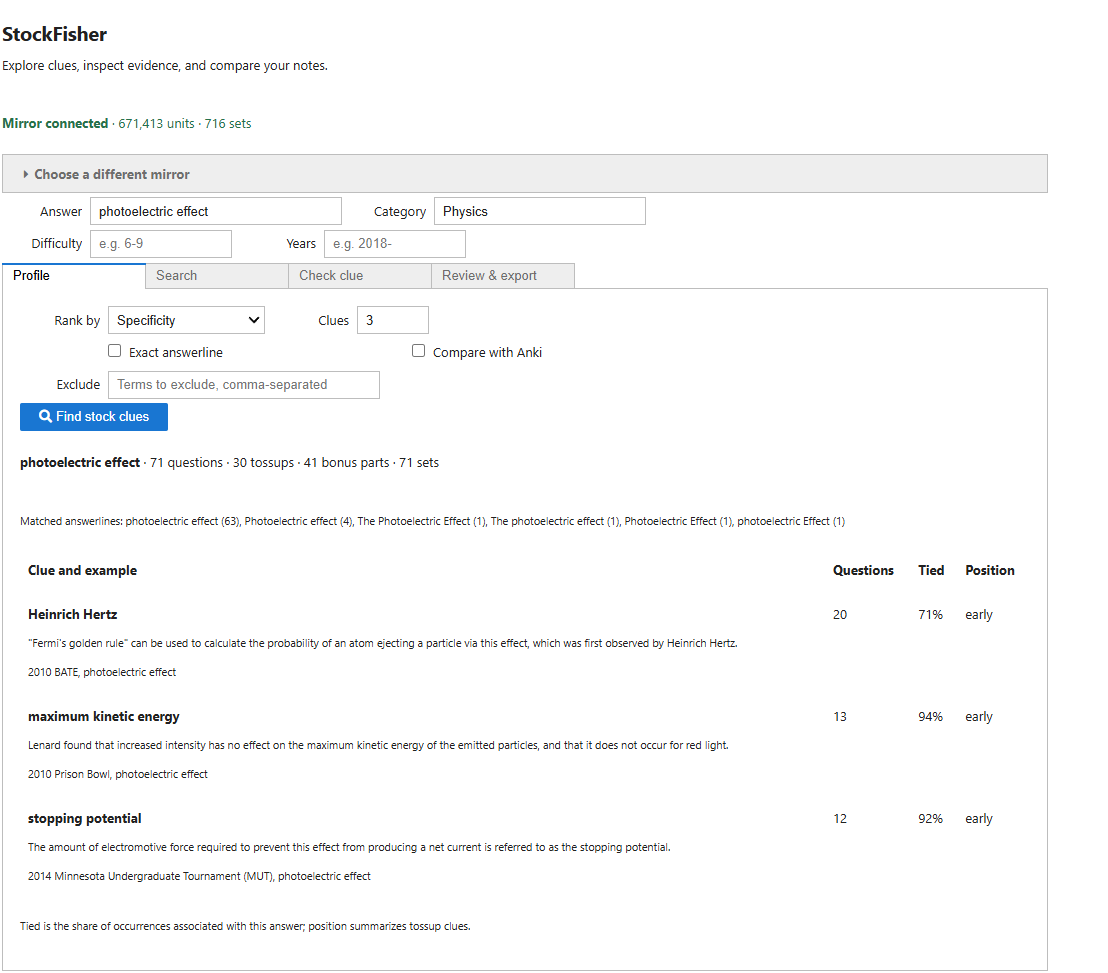
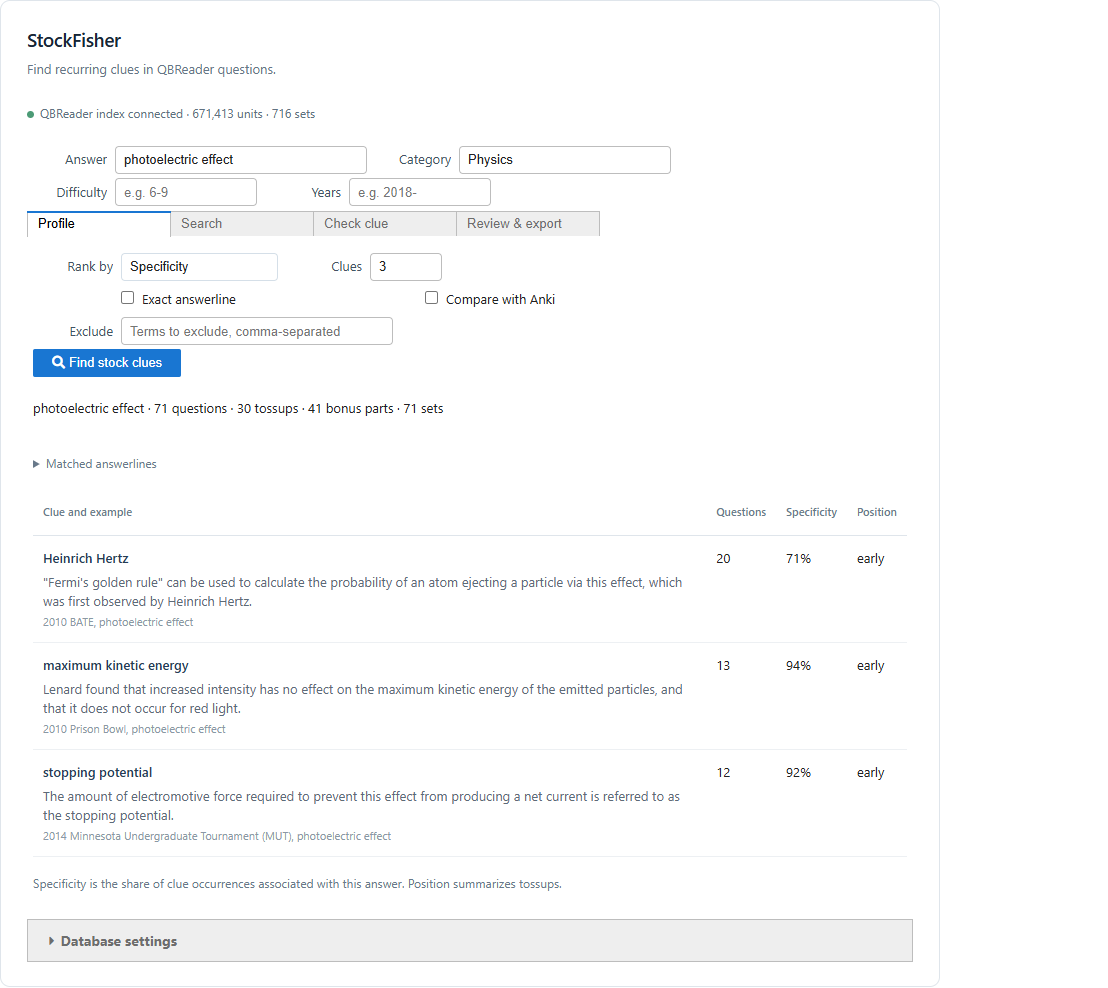
Improve notebook and show card examples

diff --git a/qbr/notebook.py b/qbr/notebook.py
@@ -17,12 +17,41 @@ def _escape(value):
 def _table(headers, rows):
     if not rows:
         return "<p>No results to show.</p>"
-    heading = "".join("<th style='text-align:left;padding:8px'>%s</th>" % _escape(h) for h in headers)
+    heading = "".join("<th>%s</th>" % _escape(h) for h in headers)
     body = "".join(
-        "<tr>%s</tr>" % "".join("<td style='padding:8px;vertical-align:top'>%s</td>" % cell for cell in row)
+        "<tr>%s</tr>" % "".join("<td>%s</td>" % cell for cell in row)
         for row in rows
     )
-    return "<table style='border-collapse:collapse;width:100%%'><thead><tr>%s</tr></thead><tbody>%s</tbody></table>" % (heading, body)
+    return "<table class='sf-table'><thead><tr>%s</tr></thead><tbody>%s</tbody></table>" % (heading, body)
+
+
+_STYLE = """<style>
+.stockfisher {color:#202a35; font:14px/1.5 -apple-system,BlinkMacSystemFont,'Segoe UI',sans-serif;
+  background:#fff; border:1px solid #dfe5eb; border-radius:10px; padding:22px 24px; box-sizing:border-box;}
+.stockfisher .sf-heading {font-size:19px; font-weight:600; letter-spacing:-.02em; margin:0 0 2px; color:#182535;}
+.stockfisher .sf-subtitle {color:#667687; margin:0 0 12px; font-size:13px;}
+.stockfisher .sf-status {color:#607181; font-size:12px; margin:0 0 14px;}
+.stockfisher .sf-status .dot {display:inline-block; width:7px; height:7px; border-radius:50%; background:#4c9b76; margin-right:6px;}
+.stockfisher .widget-tab > .p-TabBar {margin-top:14px;}
+.stockfisher .widget-tab .p-TabBar-tab {font-size:13px; text-transform:none; background:#f7f9fb;
+  color:#526578; border-color:#e4eaf0;}
+.stockfisher .widget-tab .p-TabBar-tab.p-mod-current {background:#fff; color:#1b4a72;
+  border-top:2px solid #467ba4;}
+.stockfisher .widget-tab-contents {padding:14px 4px 4px !important; border:0 !important;}
+.stockfisher .widget-label {font-size:13px; color:#425363;}
+.stockfisher input, .stockfisher textarea, .stockfisher select {font-size:13px; border:1px solid #d5dfe8;
+  border-radius:4px; background:#fff;}
+.stockfisher .sf-table {width:100%; border-collapse:collapse; margin:12px 0; font-size:13px;}
+.stockfisher .sf-table th {text-align:left; padding:9px 10px; color:#68798a; font-size:11px; font-weight:600;
+  border-bottom:1px solid #dfe5eb; white-space:nowrap;}
+.stockfisher .sf-table td {padding:12px 10px; border-bottom:1px solid #edf0f3; vertical-align:top; line-height:1.5;}
+.stockfisher .sf-clue {font-weight:600; color:#253c56;}
+.stockfisher .sf-example {display:block; color:#5d6b78; margin-top:4px;}
+.stockfisher .sf-source {display:block; color:#8a98a5; font-size:11px; margin-top:3px;}
+.stockfisher .sf-meta {color:#68798a; font-size:12px;}
+.stockfisher details.sf-meta {margin:10px 0;}
+.stockfisher details.sf-meta summary {cursor:pointer;}
+</style>"""
 
 
 def connect_database(path):
@@ -59,14 +88,14 @@ class StockFisherNotebook:
         self.db_button = widgets.Button(description="Connect", icon="database", button_style="")
         self.db_status = widgets.HTML()
         self.db_settings = widgets.Accordion(children=[widgets.VBox([self.db_path, self.db_button])])
-        self.db_settings.set_title(0, "Choose a different mirror")
+        self.db_settings.set_title(0, "Database settings")
         self.db_settings.selected_index = None
 
         self.answer = widgets.Text(value=answer, description="Answer", layout=widgets.Layout(width="340px"))
         self.category = widgets.Text(value=category, description="Category", layout=widgets.Layout(width="300px"))
         self.difficulty = widgets.Text(value=difficulty, description="Difficulty", placeholder="e.g. 6-9", layout=widgets.Layout(width="230px"))
         self.year = widgets.Text(value=year, description="Years", placeholder="e.g. 2018-", layout=widgets.Layout(width="230px"))
-        self.ranking = widgets.Dropdown(options=[("Specificity", "spec"), ("Frequency", "n"), ("Pyramid order", "pyramid")],
+        self.ranking = widgets.Dropdown(options=[("Specificity", "spec"), ("Frequency", "n"), ("Clue position", "pyramid")],
                                         value=ranking, description="Rank by", layout=widgets.Layout(width="245px"))
         self.limit = widgets.BoundedIntText(value=limit, min=1, max=100, description="Clues", layout=widgets.Layout(width="160px"))
         self.exact = widgets.Checkbox(value=False, description="Exact answerline")
@@ -109,12 +138,13 @@ class StockFisherNotebook:
             self.tabs.set_title(index, title)
 
         self.view = widgets.VBox([
-            widgets.HTML("<h2 style='margin-bottom:4px'>StockFisher</h2><p style='margin-top:0'>Explore clues, inspect evidence, and compare your notes.</p>"),
-            self.db_status, self.db_settings,
+            widgets.HTML(_STYLE + "<div class='sf-heading'>StockFisher</div><p class='sf-subtitle'>Find recurring clues in QBReader questions.</p>"),
+            self.db_status,
             widgets.HBox([self.answer, self.category], layout=widgets.Layout(flex_flow="row wrap")),
             widgets.HBox([self.difficulty, self.year], layout=widgets.Layout(flex_flow="row wrap")),
-            self.tabs,
-        ], layout=widgets.Layout(max_width="1050px", width="100%"))
+            self.tabs, self.db_settings,
+        ], layout=widgets.Layout(max_width="940px", width="100%"))
+        self.view.add_class("stockfisher")
 
         self.db_button.on_click(self.connect)
         self.profile_button.on_click(self.run_profile)
@@ -138,10 +168,10 @@ class StockFisherNotebook:
         except (OSError, sqlite3.Error, ValueError) as exc:
             self.connected = False
             self.db_settings.selected_index = 0
-            self.db_status.value = "<p style='color:#a33'><b>Mirror not connected.</b> %s</p>" % _escape(exc)
+            self.db_status.value = "<p style='color:#a33'>Mirror not connected. %s</p>" % _escape(exc)
             return False
         self.connected = True
-        self.db_status.value = "<p style='color:#26714b'><b>Mirror connected</b> · %s units · %s sets</p>" % (
+        self.db_status.value = "<p class='sf-status'><span class='dot'></span>QBReader index connected · %s units · %s sets</p>" % (
             format(info["units"], ","), format(info["sets"], ","))
         self.db_settings.selected_index = None
         return True
@@ -179,7 +209,7 @@ class StockFisherNotebook:
                 guesses = ", ".join(_escape(x[0]) for x in result.get("suggest", [])) or "No close answerlines found."
                 self.profile_status.value = "<p>No matching answer. %s</p>" % guesses
                 return result
-            stats = "<b>%s</b> · %s questions · %s tossups · %s bonus parts · %s sets" % (
+            stats = "%s · %s questions · %s tossups · %s bonus parts · %s sets" % (
                 _escape(result["name"]), result["questions"], result["tossups"], result["bonuses"], result["sets"])
             if result.get("mentioned_truncated"):
                 stats += "<br><small>Mentions reached the search cap; related-answer counts may be incomplete.</small>"
@@ -189,20 +219,20 @@ class StockFisherNotebook:
             lines = ", ".join("%s (%s)" % (_escape(line), count) for line, count in result.get("lines", []))
             rows = []
             for clue in result.get("things", []):
-                title = "<b>%s</b>" % _escape(clue.get("thing"))
+                title = "<span class='sf-clue'>%s</span>" % _escape(clue.get("thing"))
                 if clue.get("example"):
-                    title += "<br><small>%s<br>%s</small>" % (_escape(clue["example"]), _escape(clue.get("source", "")))
+                    title += "<span class='sf-example'>%s</span><span class='sf-source'>%s</span>" % (_escape(clue["example"]), _escape(clue.get("source", "")))
                 cells = [title, _escape(clue.get("n", 0)), "%.0f%%" % (100 * clue.get("tied", 0)),
                          _escape(clue.get("where", ""))]
                 if self.use_anki.value:
                     cells.append(_escape(clue.get("anki", "")))
                 rows.append(cells)
-            headers = ["Clue and example", "Questions", "Tied", "Position"] + (["Anki"] if self.use_anki.value else [])
+            headers = ["Clue and example", "Questions", "Specificity", "Position"] + (["Anki"] if self.use_anki.value else [])
             foils = ", ".join(_escape(foil["answer"]) for foil in result.get("foils", []))
-            self.profile_output.value = ("<p><small>Matched answerlines: %s</small></p>" % (lines or "none") +
+            self.profile_output.value = ("<details class='sf-meta'><summary>Matched answerlines</summary>%s</details>" % (lines or "none") +
                                          _table(headers, rows) +
-                                         ("<p><b>Related / confusable:</b> %s</p>" % foils if foils else "") +
-                                         "<p><small>Tied is the share of occurrences associated with this answer; position summarizes tossup clues.</small></p>")
+                                         ("<p>Related answers: %s</p>" % foils if foils else "") +
+                                         "<p class='sf-meta'>Specificity is the share of clue occurrences associated with this answer. Position summarizes tossups.</p>")
             self.selection.options = [("%d. %s" % (i + 1, clue["thing"]), i)
                                       for i, clue in enumerate(result.get("things", []))]
             return result

diff --git a/README.md b/README.md
@@ -1,80 +1,89 @@
-# QBCards & StockFisher
+# Quizbowl study tools
 
-Quizbowl study tools: a QBReader clue finder, a buzzer drill, and Anki note types and samples.
+Tools for researching clues, studying cards, and practicing tossups.
 
-| Project | Description |
-| --- | --- |
-| [StockFisher](StockFisher.ipynb) | Finds recurring clues in QBReader questions and compares them with Anki notes. |
-| [Buzz Drill](drill/) | Reads tossups word by word and records self-scored practice sessions. |
-| [Anki models and samples](samples/) | Note types and examples from a collection spanning science, fine arts, history, and other subjects. |
+- [StockFisher](StockFisher.ipynb) finds recurring clues in QBReader questions.
+- [Anki cards](#anki-cards) cover physics, biology, fine arts, history, and other subjects.
+- [Buzz Drill](#buzz-drill) displays tossups word by word and records practice sessions.
 
 ## StockFisher
 
-StockFisher searches a local [QBReader](https://www.qbreader.org/) mirror. For an answer, it ranks recurring clues by frequency, specificity, or position in a tossup; it can also show where those clues appear in an Anki collection. The November 2026 mirror contained 671,413 answerable units from 716 sets.
+Choose an answer and category in the [notebook](StockFisher.ipynb), then run the cell:
 
-[Open the notebook](StockFisher.ipynb) to see the inputs and an interactive interface for profiling clues, searching questions, checking a draft, and exporting results to CSV.
+```python
+from qbr.notebook import StockFisherNotebook
 
-![StockFisher notebook showing a photoelectric effect clue profile](docs/images/stockfisher-notebook.png)
+answer = "photoelectric effect"
+category = "Physics"
+difficulty = ""              # e.g. "6-9"
+years = ""                   # e.g. "2018-"
+rank_by = "spec"             # specificity; use "n" for frequency or "pyramid" for position
+clues = 15
+
+research = StockFisherNotebook(
+    answer=answer, category=category, difficulty=difficulty,
+    year=years, ranking=rank_by, limit=clues,
+)
+research.run_profile()
+research.display()
+```
+
+The results show recurring clues, question counts, where clues tend to appear, and examples from the source questions. The notebook also searches question text, checks draft clues, and exports selected results to CSV. You can optionally compare results with your Anki notes using AnkiConnect.
+
+![StockFisher results for the photoelectric effect, with question counts and source passages](docs/images/stockfisher-notebook.png)
+
+### How it works
+
+StockFisher uses questions from [QBReader](https://www.qbreader.org/). The sync command downloads them through QBReader's API and builds a local SQLite index. Searches and clue rankings run against that index, which lets the program compare many questions without fetching them again for every search. A sync downloads new sets and checks recent sets for changes; older edits require a full sync. Results reflect the last sync, rather than the live site. In November 2026, the index held 671,413 answerable units from 716 sets.
+
+Clues are suggestions, not fact checks. Read the source questions before using them, and check whether a clue uniquely identifies its answer.
 
 ### Setup
 
-Python 3.9+ and SQLite with FTS5 are required. Build the mirror with:
+Python 3.9+ and SQLite with FTS5 are required. The first sync downloads the questions and builds the index, which is roughly 900 MB:
 
 ```bash
 git clone https://github.com/tygerthelyon/qbcards.git
 cd qbcards
 python -m qbr sync
-```
-
-The first sync requires internet access and extra disk space; the finished mirror is roughly 900 MB. To run the notebook:
-
-```bash
 python -m pip install -r requirements-notebook.txt
 python -m notebook StockFisher.ipynb
 ```
 
-Run the notebook cells and select **Find stock clues**. If your mirror is elsewhere, enter its path in the notebook or set `QBR_DB` before starting Jupyter. Anki comparisons require AnkiConnect and do not change the collection.
+Run the cell in the notebook. If you already have an index elsewhere, enter its path in the notebook or set `QBR_DB` before starting Jupyter. AnkiConnect is needed only for Anki comparisons; those comparisons do not change the collection. See the [command-line and Python guide](qbr/README.md) for other searches and filters.
 
-The command-line tools use the same mirror:
+## Anki cards
 
-```bash
-python -m qbr profile "photoelectric effect" -c physics --spec
-python -m qbr search "pendentives" -c architecture -d 7-9
-python -m qbr who "zero of form"
-```
+The collection had 11,921 notes and 34,848 cards in November 2026. These examples were rendered from cards in the collection; the first seven images show the question side, and the last shows an answer side.
 
-Counts depend on the last sync. Review the source questions before using a suggested clue: frequency alone does not establish accuracy or a unique answer. The [StockFisher guide](qbr/README.md) covers filters, Python usage, and limitations.
+| Biology ? cloze | Physics ? cloze |
+| --- | --- |
+| ![Biology cloze card about an organelle](docs/images/cards/biology.png) | ![Physics cloze card about Boltzmann's formula](docs/images/cards/physics.png) |
+| Music ? clue to work | Art ? image to title |
+| ![Classical music clue card](docs/images/cards/music.png) | ![Visual art identification card](docs/images/cards/art.png) |
+| Geography ? name to capital | Architecture ? work to architect |
+| ![Geography capital card](docs/images/cards/geography.png) | ![Architecture card asking for the architects of Hagia Sophia](docs/images/cards/architecture.png) |
+| Poetry ? question | Poetry ? answer |
+| ![Poetry card asking for the poet of The Raven](docs/images/cards/poetry-front.png) | ![Answer side of the poetry card](docs/images/cards/poetry.png) |
+
+The repository includes [sample notes](samples/), [note-type definitions](templates/models.json), and [collection utilities](scripts/). The full collection, media, and importable deck packages are not included.
 
 ## Buzz Drill
 
-![Buzz Drill setup screen, showing categories, session length, and reading speed](docs/images/buzz-drill.png)
+The practice pool contains 1,864 tossups selected for the study collection. Choose categories and a reading speed, buzz with Space, then reveal the answer and score yourself. Session history stays in browser storage.
 
-The practice pool contains 1,864 tossups selected for the study collection. Choose categories and a reading speed, buzz with **Space**, then reveal the answer and score yourself. Session history stays in browser storage.
+![Buzz Drill setup screen](docs/images/buzz-drill.png)
 
-Serve the repository locally:
+From the repository root, run:
 
 ```bash
 python -m http.server 8000
 ```
 
-Open <http://localhost:8000/drill/buzz-drill.html>. Buzz Drill does not require the StockFisher mirror or Anki.
+Open <http://localhost:8000/drill/buzz-drill.html>. Buzz Drill does not require the StockFisher index or Anki.
 
-## The collection
+## Tests and sources
 
-The Anki collection spans physics, biology, fine arts, geography, history, philosophy, and other subjects. A November 2026 audit counted 11,921 notes and 34,848 cards; many cards are suspended until earlier material has been studied.
-
-This repository includes [sample notes](samples/), [note-type definitions](templates/models.json), and [collection utilities](scripts/). The full collection, media, and importable deck packages are not included.
-
-## Tests
-
-Run the offline tests with:
-
-```bash
-python -m unittest discover -s tests -v
-```
-
-`python -m qbr.selftest` also compares a synced mirror against the live QBReader API; it needs the database and a network connection.
-
-## Question sources
+Run the offline tests with `python -m unittest discover -s tests -v`. The larger `python -m qbr.selftest` also checks a synced index against the live QBReader API and requires a network connection.
 
 StockFisher and Buzz Drill use questions made available through QBReader. The questions remain the work of their writers and tournament hosts; see [QBReader's notes on question sources and non-commercial use](https://github.com/qbreader#questions).

diff --git a/qbr/README.md b/qbr/README.md
@@ -1,7 +1,8 @@
 # qbr
 
-A local SQLite mirror of the QBReader question database, with tools for searching questions and comparing recurring clues.
-It supports offline queries after the initial sync and can compare results with an Anki collection.
+StockFisher downloads questions through the QBReader API and indexes them locally in SQLite. Searches and clue
+comparisons use that local index; run a sync to fetch new sets and check recent sets for changes. Queries work offline
+after the initial sync, and results can be compared with an Anki collection.
 
 Run commands from the repository root with Python 3.9 or later. The database is not included: run
 `python -m qbr sync` first. The initial download is large and requires internet access; the resulting database is

diff --git a/samples/README.md b/samples/README.md
@@ -2,6 +2,8 @@
 
 These files show a small cross-section of the larger Anki collection:
 
+For rendered card examples, see the [gallery](../README.md#anki-cards).
+
 | File | Records | Contents |
 | --- | ---: | --- |
 | [sample_fine_arts.json](sample_fine_arts.json) | 27 | Works, artists, dates, locations, and selected clues |
